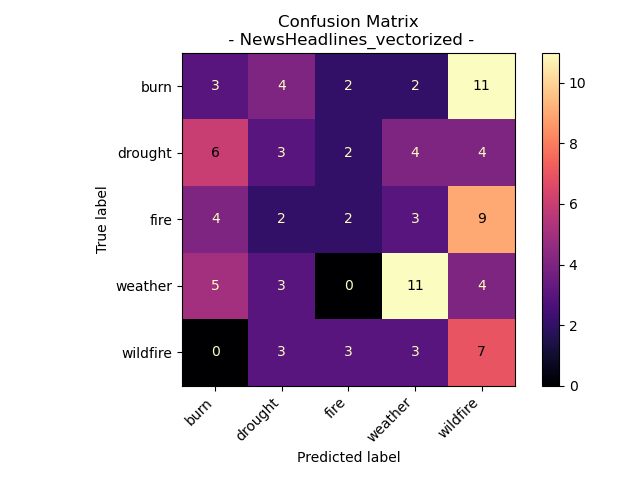
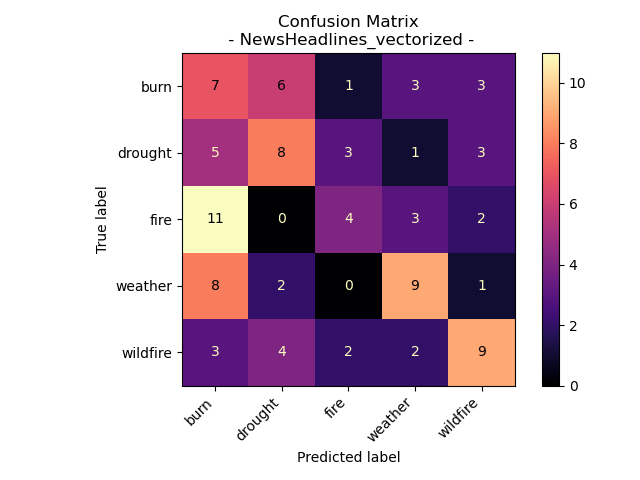
added proportional graphs for the label distributions

diff --git a/naive_bayes.py b/naive_bayes.py
@@ -16,6 +16,8 @@ from sklearn.metrics import confusion_matrix, ConfusionMatrixDisplay, accuracy_s
 
 from sklearn.naive_bayes import MultinomialNB
 
+from collections import Counter
+
 
 ## Setting the folder path to the cleaned but not formatted data
 
@@ -58,30 +60,47 @@ def main():
 
     
     print("\n\n ---------- Selecting Train and Test Data ---------- \n")
-    fires_monthly_train_labels, fires_monthly_train_df, fires_monthly_test_labels, fires_monthly_test_df = setup_train_test_data(fires_monthly_df, label_col="Month", cols_of_interst_plus_label=["Month","Acres_Burned", "Number_of_Fires", "Acres_Burned_per_Fire"])
-    fires_season_train_labels, fires_season_train_df, fires_season_test_labels, fires_season_test_df = setup_train_test_data(fires_monthly_df, label_col="Season", cols_of_interst_plus_label=["Season","Acres_Burned", "Number_of_Fires", "Acres_Burned_per_Fire"])
+    fires_monthly_sample_dict = setup_train_test_data(fires_monthly_df, label_col="Month", cols_of_interst_plus_label=["Month","Acres_Burned", "Number_of_Fires", "Acres_Burned_per_Fire"])
+    fires_season_sample_dict = setup_train_test_data(fires_monthly_df, label_col="Season", cols_of_interst_plus_label=["Season","Acres_Burned", "Number_of_Fires", "Acres_Burned_per_Fire"])
     
-    news_train_labels, news_train_df, news_test_labels, news_test_df = setup_train_test_data(news_headlines_df, "LABEL")
-    news2_train_labels, news2_train_df, news2_test_labels, news2_test_df = setup_train_test_data(news_headlines_df2, "GenericLabel")
-    news_select_train_labels, news_select_train_df, news_select_test_labels, news_select_test_df = setup_train_test_data(news_headlines_df_selected, "LABEL")
-    news_select2_train_labels, news_select2_train_df, news_select2_test_labels, news_select2_test_df = setup_train_test_data(news_headlines_df_selected2, "LABEL")
+    news_sample_dict = setup_train_test_data(news_headlines_df, "LABEL")
+    news2_sample_dict = setup_train_test_data(news_headlines_df2, "GenericLabel")
+    news_sample_dict_selected = setup_train_test_data(news_headlines_df_selected, "LABEL")
+    news_sample_dict2 = setup_train_test_data(news_headlines_df_selected2, "LABEL")
     
-    or_cause_train_labels, or_cause_train_df, or_cause_test_labels, or_cause_test_df = setup_train_test_data(or_weather_wildfires_comments_vector_df, "GeneralCause")
-    or_specific_train_labels, or_specific_train_df, or_specific_test_labels, or_specific_test_df = setup_train_test_data(or_weather_wildfires_specific_vector_df, "GeneralCause")
-    or_train_labels, or_train_df, or_test_labels, or_test_df = setup_train_test_data(or_weather_wildfires_df, label_col="Size_class", cols_of_interst_plus_label=["Size_class","tmax", "tmin", "tavg", "prcp", "FireDuration_hrs"])
+    or_cause_sample_dict = setup_train_test_data(or_weather_wildfires_comments_vector_df, "GeneralCause")
+    or_specific_sample_dict = setup_train_test_data(or_weather_wildfires_specific_vector_df, "GeneralCause")
+    or_sample_dict = setup_train_test_data(or_weather_wildfires_df, label_col="Size_class", cols_of_interst_plus_label=["Size_class","tmax", "tmin", "tavg", "prcp"])
+    or_sample_balanced_dict = train_test_OR_weather(or_weather_wildfires_df, label_col="Size_class", cols_of_interst_plus_label=["Size_class","tmax", "tmin", "tavg", "prcp"])
 
     print("\n\n ---------- Naive Bayes ---------- \n")
-    multinomial_naive_bayes(fires_monthly_train_labels, fires_monthly_train_df, fires_monthly_test_labels, fires_monthly_test_df, us_fires_burn_monthly_filename)
-    multinomial_naive_bayes(fires_season_train_labels, fires_season_train_df, fires_season_test_labels, fires_season_test_df, f"{us_fires_burn_monthly_filename}_season")
+    fires_monthly_dict_pred = multinomial_naive_bayes(fires_monthly_sample_dict, us_fires_burn_monthly_filename)
+    fires_season_dict_pred = multinomial_naive_bayes(fires_season_sample_dict, f"{us_fires_burn_monthly_filename}_season")
     
-    multinomial_naive_bayes(news_train_labels, news_train_df, news_test_labels, news_test_df, news_headlines_vector_filename)
-    multinomial_naive_bayes(news2_train_labels, news2_train_df, news2_test_labels, news2_test_df, f"{news_headlines_vector_filename}_2")
-    multinomial_naive_bayes(news_select_train_labels, news_select_train_df, news_select_test_labels, news_select_test_df, f"{news_headlines_vector_filename}_wildfires_weather")
-    multinomial_naive_bayes(news_select2_train_labels, news_select2_train_df, news_select2_test_labels, news_select2_test_df, f"{news_headlines_vector_filename}_burn_weather")
+    news_dict_pred = multinomial_naive_bayes(news_sample_dict, news_headlines_vector_filename)
+    news2_dict_pred = multinomial_naive_bayes(news2_sample_dict, f"{news_headlines_vector_filename}_2")
+    news_dict_select_pred = multinomial_naive_bayes(news_sample_dict_selected, f"{news_headlines_vector_filename}_wildfires_weather")
+    news_dict_select2_pred= multinomial_naive_bayes(news_sample_dict2, f"{news_headlines_vector_filename}_burn_weather")
     
-    multinomial_naive_bayes(or_cause_train_labels, or_cause_train_df, or_cause_test_labels, or_cause_test_df, or_weather_wildfires_comments_vector_filename)
-    multinomial_naive_bayes(or_specific_train_labels, or_specific_train_df, or_specific_test_labels, or_specific_test_df, or_weather_wildfires_specific_vector_filename)
-    multinomial_naive_bayes(or_train_labels, or_train_df, or_test_labels, or_test_df, or_weather_wildfires_filename)
+    or_dict_cause_pred = multinomial_naive_bayes(or_cause_sample_dict, or_weather_wildfires_comments_vector_filename)
+    or_dict_specific_pred = multinomial_naive_bayes(or_specific_sample_dict, or_weather_wildfires_specific_vector_filename)
+    or_dict_pred = multinomial_naive_bayes(or_sample_dict, or_weather_wildfires_filename)
+    or_dict_balanced_pred = multinomial_naive_bayes(or_sample_balanced_dict, f"{or_weather_wildfires_filename}_balanced")
+     
+    print("\n\n ---------- Further Visuals ---------- \n")
+    months = ["January","February","March","April","May","June","July", "August","September","October","November","December"]
+    label_counts(fires_monthly_dict_pred, us_fires_burn_monthly_filename, months)
+    label_counts(fires_season_dict_pred, f"{us_fires_burn_monthly_filename}_season")
+    
+    label_counts(news_dict_pred, news_headlines_vector_filename)
+    label_counts(news2_dict_pred,  f"{news_headlines_vector_filename}_2")
+    label_counts(news_dict_select_pred, f"{news_headlines_vector_filename}_wildfires_weather")
+    label_counts(news_dict_select2_pred, f"{news_headlines_vector_filename}_burn_weather")
+    
+    label_counts(or_dict_cause_pred, or_weather_wildfires_comments_vector_filename)
+    label_counts(or_dict_specific_pred, or_weather_wildfires_specific_vector_filename)
+    label_counts(or_dict_pred, or_weather_wildfires_filename, ["A", "B", "C", "D", "E", "F", "G"])
+    label_counts(or_dict_balanced_pred, f"{or_weather_wildfires_filename}_balanced")
 
     
 def set_fire_months(df, month_col):
@@ -109,24 +128,104 @@ def setup_train_test_data(df, label_col, cols_of_interst_plus_label=None, test_s
         df2 = df[cols_of_interst_plus_label]
     
     rd.seed(seed_val)
-    train_df, test_df = train_test_split(df2, test_size=test_size)
+    train_df, test_df, train_labels, test_labels = train_test_split(df2.drop(label_col, axis=1), df2[label_col], test_size=test_size, stratify=df2[label_col])
     
-    print(f"\n\n Training Dataset before labels removed \n {train_df.head()} \n\n")
+    print(f"\n\n Training Dataset with labels removed \n {train_df.head()} \n\n")
     
-    print(f"\n\n Testing Dataset before labels removed \n {test_df.head()} \n\n")
+    print(f"\n\n Testing Dataset with labels removed \n {test_df.head()} \n\n")
     
+    # # Test
+    # test_labels = test_df[label_col]
+    # test_df = test_df.drop([label_col], axis=1) # remove labels
+    
+    # # Train
+    # train_labels = train_df[label_col]
+    # train_df = train_df.drop([label_col], axis = 1) # remove labels
+    
+    sample_dict = {
+        "train_labels" : train_labels,
+        "train_df" : train_df,
+        "test_labels" : test_labels,
+        "test_df" : test_df
+    }
+    
+    return sample_dict
+
+
+def train_test_OR_weather(df, label_col, cols_of_interst_plus_label):
+    '''
+    This function aims to give an example of what a balanced dataset would like like
+    '''
+    
+    label_counts_total = Counter(list(df[label_col]))
+    
+    labels = list(label_counts_total.keys())
+    counts = list(label_counts_total.values())
+    
+    min_count = min(counts)
+    min_count1 = min_count //2
+    min_count2 = min_count // 5
+    
+    if cols_of_interst_plus_label is None:
+        df2 = df.copy()
+    else:
+        df2 = df[cols_of_interst_plus_label]
+   
+   
+    data_label_A = df2[df2[label_col] == 'A']
+    data_label_B = df2[df2[label_col] == 'B']
+    data_label_C = df2[df2[label_col] == 'C']
+    data_label_D = df2[df2[label_col] == 'D']
+    data_label_E = df2[df2[label_col] == 'E']
+    data_label_F = df2[df2[label_col] == 'F']
+    data_label_G = df2[df2[label_col] == 'G']
+
+
+    sample_A, _ = train_test_split(data_label_A, train_size=min_count1, stratify=data_label_A[label_col], random_state=42)
+    sample_B, _ = train_test_split(data_label_B, train_size=min_count1, stratify=data_label_B[label_col], random_state=42)
+    sample_C, _ = train_test_split(data_label_C, train_size=min_count1, stratify=data_label_C[label_col], random_state=42)
+    sample_D, _ = train_test_split(data_label_D, train_size=min_count1, stratify=data_label_D[label_col], random_state=42)
+    sample_E, _ = train_test_split(data_label_E, train_size=min_count1, stratify=data_label_E[label_col], random_state=42)
+    sample_F, _ = train_test_split(data_label_F, train_size=min_count1, stratify=data_label_F[label_col], random_state=42)
+    sample_G, _ = train_test_split(data_label_G, train_size=min_count1, stratify=data_label_G[label_col], random_state=42)
+    
+    
+    A_test, _ = train_test_split(data_label_A, train_size=min_count2, stratify=data_label_A[label_col], random_state=123)
+    B_test, _ = train_test_split(data_label_B, train_size=min_count2, stratify=data_label_B[label_col], random_state=123)
+    C_test, _ = train_test_split(data_label_C, train_size=min_count2, stratify=data_label_C[label_col], random_state=123)
+    D_test, _ = train_test_split(data_label_D, train_size=min_count2, stratify=data_label_D[label_col], random_state=123)
+    E_test, _ = train_test_split(data_label_E, train_size=min_count2, stratify=data_label_E[label_col], random_state=123)
+    F_test, _ = train_test_split(data_label_F, train_size=min_count2, stratify=data_label_F[label_col], random_state=123)
+    G_test, _ = train_test_split(data_label_G, train_size=min_count2, stratify=data_label_G[label_col], random_state=123)
+    
+    # Combine the sampled data from each category into your training set
+    training_set = pd.concat([sample_A, sample_B, sample_C, sample_D, sample_E, sample_F, sample_G])
+    testing_set = pd.concat([A_test, B_test, C_test, D_test, E_test, F_test, G_test])
+
     # Test
-    test_labels = test_df[label_col]
-    test_df = test_df.drop([label_col], axis=1) # remove labels
+    test_labels = testing_set[label_col]
+    test_df = testing_set.drop([label_col], axis=1) # remove labels
     
     # Train
-    train_labels = train_df[label_col]
-    train_df = train_df.drop([label_col], axis = 1) # remove labels
+    train_labels = training_set[label_col]
+    train_df = training_set.drop([label_col], axis = 1) # remove labels
     
-    return train_labels, train_df, test_labels, test_df
+    sample_dict = {
+        "train_labels" : train_labels,
+        "train_df" : train_df,
+        "test_labels" : test_labels,
+        "test_df" : test_df
+    }
+
+    return sample_dict
 
 
-def multinomial_naive_bayes(train_labels, train_df, test_labels, test_df, filename):
+def multinomial_naive_bayes(sample_dict, filename):
+    
+    train_labels = sample_dict["train_labels"]
+    train_df = sample_dict["train_df"]
+    test_labels = sample_dict['test_labels']
+    test_df = sample_dict['test_df']
 
     #Create the modeler
     MyModelNB = MultinomialNB()
@@ -156,6 +255,89 @@ def multinomial_naive_bayes(train_labels, train_df, test_labels, test_df, filena
     plt.tight_layout()
     plt.savefig(f"./CreatedVisuals/NaiveBayes/{filename}_cm.png")
     plt.close()
+    
+    sample_dict["naive_pred"] = naive_pred
+    
+    return sample_dict
+
+
+def label_counts(data_dict, filename, order=None):
+        
+    label_counts_pred = Counter(list(data_dict["naive_pred"]))
+    label_counts_test = Counter(list(data_dict["test_labels"]))
+    label_counts_train = Counter(list(data_dict["train_labels"]))
+    
+    labels_pred = list(label_counts_pred.keys())
+    values_pred = list(label_counts_pred.values())
+    
+    labels_test = list(label_counts_test.keys())
+    values_test = list(label_counts_test.values())
+    
+    labels_train = list(label_counts_train.keys())
+    values_train = list(label_counts_train.values())
+    
+    total_pred = sum(values_pred)
+    total_test = sum(values_test)
+    total_train = sum(values_train)
+
+    percentages_pred = [(value / total_pred) for value in values_pred]
+    percentages_test = [(value / total_test) for value in values_test]
+    percentages_train = [(value / total_train) for value in values_train]
+    
+    labels = list(set(labels_pred + labels_test + labels_train))
+    
+    pred_df = pd.DataFrame({
+        "Label" : labels_pred,
+        "Predicted" : percentages_pred
+    })
+    
+    test_df = pd.DataFrame({
+        "Label" : labels_test,
+        "Test" : percentages_test
+    })
+    
+    train_df = pd.DataFrame({
+        "Label" : labels_train,
+        "Train" : percentages_train
+    })
+
+    merged_df = train_df.merge(test_df, on='Label', how='outer').merge(pred_df, on='Label', how='outer')
+    merged_df = merged_df.fillna(0)
+    
+    if order is not None:
+        print(order)
+        merged_df['Label'] = pd.Categorical(merged_df['Label'], categories=order, ordered=True)
+        merged_df = merged_df.sort_values(by='Label')
+        print(merged_df)
+    
+    plt.figure(figsize=(28, 10))
+    ax = merged_df.plot(x="Label", y=["Test", "Predicted"], kind="bar", rot=0, color=["#364659", "#6C90D9"])
+    plt.xticks(rotation=90, ha='right')
+    plt.xlabel('\nLabel')
+    plt.ylabel('Portion of Data with that Label\n')
+    plt.title(f'Comparison of Naive Bayes Predictions and Actual Label Proportions\n{filename}')
+    plt.legend(loc='upper left', bbox_to_anchor=(1, 1)) 
+    
+    plt.tight_layout()   
+    plt.savefig(f"./CreatedVisuals/NaiveBayes/label_counts/{filename}_test_v_pred.png")
+    plt.close()
+    
+    
+    
+    threshold = 1/len(list(set(labels)))
+    plt.figure(figsize=(20, 10))
+    ax = merged_df.plot(x="Label", y=["Train"], kind="bar", rot=0, color=["#8EA3BF"])
+    plt.axhline(y=threshold, color='#D9CDBF', linestyle='--', label='Even Distribution')
+    plt.xticks(rotation=90, ha='right')
+    plt.xlabel('\nLabel')
+    plt.ylabel('Portion of Data with that Label\n')
+    plt.title(f'Proportion of Labels in the Training Set\n{filename}')
+    
+    plt.tight_layout()    
+    plt.savefig(f"./CreatedVisuals/NaiveBayes/label_counts/{filename}_train.png")
+    plt.close()
+
+
 
 # DO NOT REMOVE!!!
 if __name__ == "__main__":
